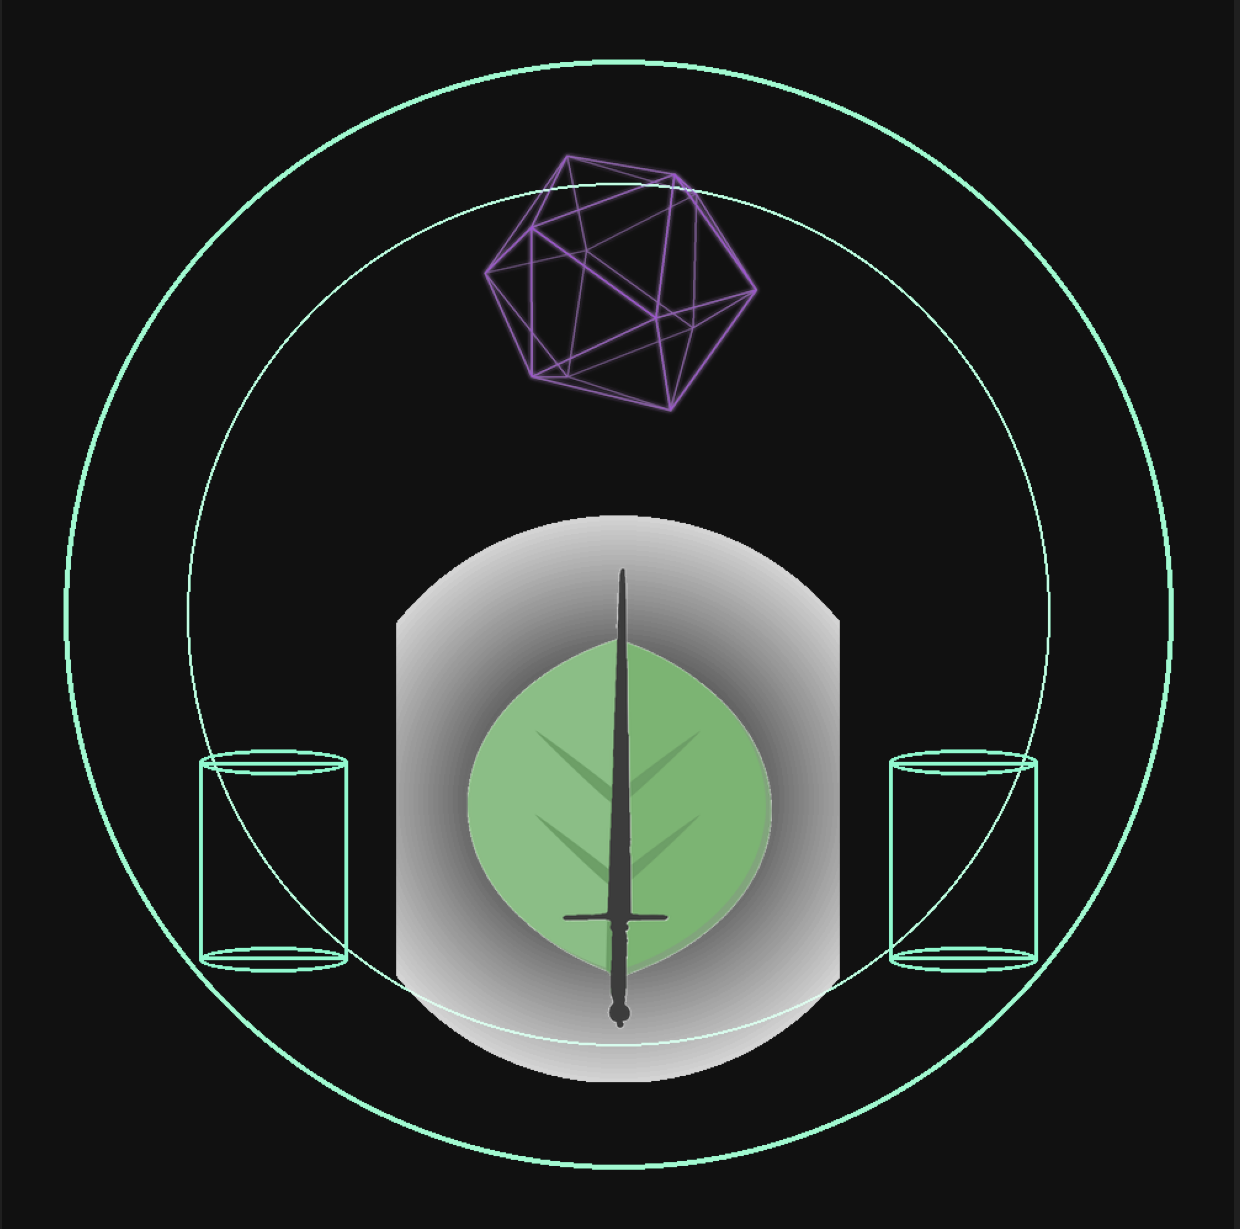
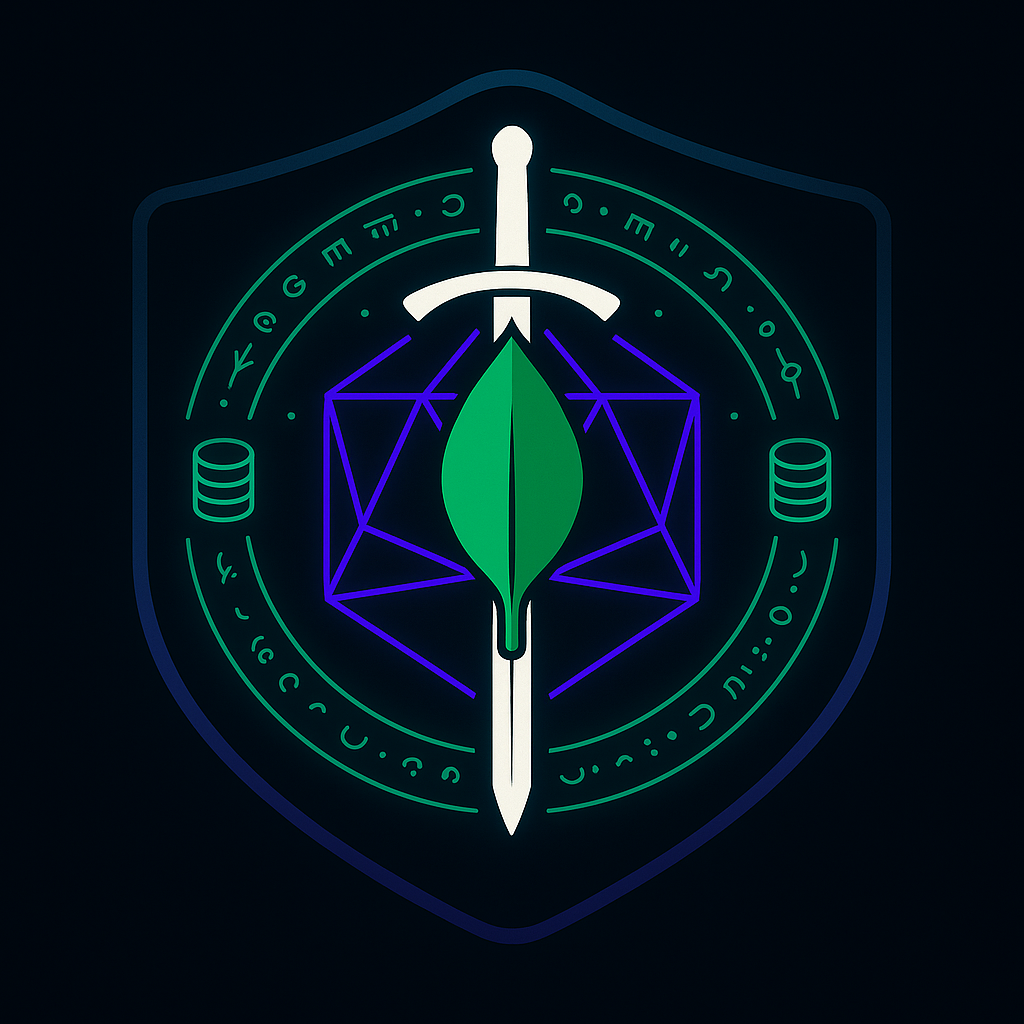
assets: add final visuals (crest, schema, ingest); update README, shorter ingest output

diff --git a/scripts/ingest_srd.py b/scripts/ingest_srd.py
@@ -331,7 +331,7 @@ def main() -> None:
     for stem, cnt in file_counts.items():
         print(f"{stem}: {cnt} features")
     print(f"\nMongoDB totals → classes: {class_count}, features: {feature_count}")
-    print(f"Cache written → {CACHE_DIR/'classes.min.json'}, {CACHE_DIR/'meta.json'}")
+    print("Cache written → cache/classes.min.json, cache/meta.json")
     print("\nDone.")
 
 

diff --git a/CHANGELOG.md b/CHANGELOG.md
@@ -11,3 +11,23 @@ This project follows [Semantic Versioning](https://semver.org/).
   - Replaced Roadmap with new Status & Roadmap section.
   - Added keywords/topics guidance.
 - Preserved dual licensing (MIT for code, CC-BY-4.0 for SRD content).
+
+## [v0.3.1] - 2025-10-03
+### Added
+- Final crest assets:
+  - `assets/crest.png` (square 1000×1000)
+  - `assets/crest_widescreen.png` (16:9)
+- Final schema assets:
+  - `assets/schema.png` (square, no totals)
+  - `assets/schema_wide.png` (16:9, no totals)
+- Ingest output visuals:
+  - `assets/ingest.png` (square, neon highlight on last 2 lines)
+  - `assets/ingest_wide.png` (16:9, centered on dark background)
+
+### Changed
+- `README.md`: updated to display final visuals consistently.
+- `scripts/ingest_srd.py`: adjusted output to shorter cache file path for cleaner screenshot capture.
+
+### Notes
+This release finalizes the visual assets for the MongoDND repo (crest, schema, ingest) in both square and widescreen formats, and ensures ingest output is more presentation-friendly.
+
